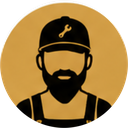
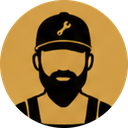
[CF-Pages-Skip] The white line was baked into the file, and the rail gets real elevation
THE WHITE LINE

It was in the PNG, not the CSS. Measured on the shipped asset: the field sits at
rgb(207,156,70) and holds until r=124, then jumps to rgb(217,162,73) at r=126
while still FULLY OPAQUE, before the alpha starts to fall at r=127. A ten-point
lighter ring, one to two pixels wide, all the way round him. On the gold tab
that is a white line around Tim.

Where it came from: the disc was cropped out of the brand-sheet screenshot at
its full radius, so the source's own antialiased edge, which blends the gold
toward the white card behind it, came along as opaque pixels. The circular mask
then made the CORNERS transparent and left that ring sitting inside it.

Rebuilt from the original screenshot rather than patched. Measuring the source
radially shows the field flat at ~146 brightness from 0.85R all the way to
0.98R and lifting only at the very edge, so the crop now takes 0.97R and the
mask lands on clean field. Three percent of the radius is imperceptible; the
ring is not. Verified after: flat 146.5 from 0.90R to 0.985R, and the only edge
left is alpha falling to zero, which composites invisibly on the same gold and
correctly on white.

--tim-gold moves to #D29E47, sampled from the rebuilt file, and the two pulse
keyframes move with it. A halo in a different gold from the coin it comes off
is the same class of bug one layer out.

ELEVATION

Not with the fill. The portrait covers 32 of the 36px, so a gradient on the tab
[…]

diff --git a/index.html b/index.html
@@ -186,7 +186,7 @@ input[type=checkbox],input[type=radio]{appearance:auto;-webkit-appearance:auto}
      and so is the field the portrait is printed on, so there is no seam where
      one ends and the other starts. A gold that is close but not equal shows up
      as a faint disc around his head at every size. */
-  --tim-gold:#D3A04B;--hat:#F2A81C;
+  --tim-gold:#D29E47;--hat:#F2A81C;
   --r-xs:4px;--r-sm:6px;--r-md:10px;--r-lg:12px;--r-xl:16px;--r-pill:999px;--r-mark:9px;
   --shadow-card:0 1px 2px rgba(27,22,18,.04),0 0 0 1px var(--line);
   --shadow-hover:0 3px 12px rgba(27,22,18,.08),0 0 0 1px var(--line);
@@ -422,8 +422,28 @@ body.td-pressing,body.td-pressing *{user-select:none!important;-webkit-user-sele
    recognisable as a man at rest, which is the whole point of having a face.
    The 6px nudge right pushes the portrait's dead centre past the screen edge
    so that what is cropped is the back of his head, not his ear. */
-#tim-dock-btn{width:36px;height:62px;border:0;border-radius:26px 0 0 26px;background:var(--tim-gold);
-  box-shadow:inset 1px 0 0 rgba(27,22,18,.16),-1px 0 0 rgba(27,22,18,.06),-4px 0 12px rgba(27,22,18,.11);
+/* ELEVATION. Owner, 2026-09-21: "how can we elevate it more".
+   Not with the fill. The portrait covers 32 of the 36px, so a gradient on the
+   tab is invisible behind him and shows as a flat disc on a graded field in the
+   2px that IS visible. What is left is the light on its edges and the shadow
+   under it, which is what elevation actually is.
+   Three things, in the order a real object makes them:
+     a warm top highlight and a cool bottom shade, 1px each, so the tab has
+       thickness instead of being a coloured rectangle;
+     a CONTACT shadow, tight and close, which is what says the tab is sitting ON
+       the page rather than printed into it;
+     an AMBIENT shadow, wide and faint, which is what says how far above.
+   One soft shadow on its own (what was here) gives the second without the
+   first, and that reads as a sticker every time.
+   68px tall, up from 62: height is the one dimension that costs the page
+   nothing, and a taller tab reads as fitted chrome rather than a nub. */
+#tim-dock-btn{width:36px;height:68px;border:0;border-radius:28px 0 0 28px;background:var(--tim-gold);
+  box-shadow:inset 0 1px 0 rgba(255,246,228,.34),
+    inset 1px 0 0 rgba(27,22,18,.20),
+    inset 0 -1px 0 rgba(27,22,18,.16),
+    -1px 0 0 rgba(27,22,18,.07),
+    -2px 1px 4px rgba(27,22,18,.14),
+    -9px 6px 22px rgba(27,22,18,.14);
   cursor:pointer;display:flex;align-items:center;justify-content:center;overflow:hidden;
   position:relative;pointer-events:auto;padding:0;
   transition:width .24s cubic-bezier(.22,1,.36,1),height .24s cubic-bezier(.22,1,.36,1),
@@ -457,7 +477,7 @@ body.td-pressing,body.td-pressing *{user-select:none!important;-webkit-user-sele
    So waking him is the pulse, the pill coming out beside him, and the count.
    Three signals and no reflow, instead of a fourth that reaches further across
    the page and looks worse for it. */
-#tim-dock-btn.alive{box-shadow:inset 1px 0 0 rgba(27,22,18,.16),-1px 0 0 rgba(27,22,18,.06),-4px 0 12px rgba(27,22,18,.11)}
+#tim-dock-btn.alive{box-shadow:inset 0 1px 0 rgba(255,246,228,.34),inset 1px 0 0 rgba(27,22,18,.20),inset 0 -1px 0 rgba(27,22,18,.16),-2px 1px 4px rgba(27,22,18,.14),-9px 6px 22px rgba(27,22,18,.14)}
 #tim-dock-btn:active{transform:scale(.96);opacity:.85}
 /* Pinned to the dock's own top right, which is the screen edge, where the tab
    corner is square and nothing curves away under it. pointer-events:none so it
@@ -478,8 +498,8 @@ body.td-pressing,body.td-pressing *{user-select:none!important;-webkit-user-sele
    say. What CHANGES is which line is showing, not what colour he is. */
 #tim-dock-btn.alive{animation:tim-breathe 2.9s ease-in-out infinite}
 @keyframes tim-breathe{
-  0%,100%{box-shadow:inset 1px 0 0 rgba(27,22,18,.16),-4px 0 12px rgba(27,22,18,.11),0 0 0 0 rgba(211,160,75,.42)}
-  50%    {box-shadow:inset 1px 0 0 rgba(27,22,18,.16),-4px 0 12px rgba(27,22,18,.11),0 0 0 9px rgba(211,160,75,0)}
+  0%,100%{box-shadow:inset 0 1px 0 rgba(255,246,228,.34),inset 1px 0 0 rgba(27,22,18,.20),inset 0 -1px 0 rgba(27,22,18,.16),-2px 1px 4px rgba(27,22,18,.14),-9px 6px 22px rgba(27,22,18,.14),0 0 0 0 rgba(210,158,71,.42)}
+  50%    {box-shadow:inset 0 1px 0 rgba(255,246,228,.34),inset 1px 0 0 rgba(27,22,18,.20),inset 0 -1px 0 rgba(27,22,18,.16),-2px 1px 4px rgba(27,22,18,.14),-9px 6px 22px rgba(27,22,18,.14),0 0 0 9px rgba(210,158,71,0)}
 }
 /* ── Tim after dark ─────────────────────────────────────────────────────────
    body.dark repoints --ink to #0A0A08 and --paper to #14110E, which are four
@@ -494,14 +514,18 @@ body.td-pressing,body.td-pressing *{user-select:none!important;-webkit-user-sele
    dark because nothing is printed next to them that has to match.
    The pulse comes down too. A gold halo at .42 is a glance on white and a
    headlight on #14110E. */
+/* Dark keeps the BEVEL and drops the ambient shadow: a soft dark shadow on a
+   #14110E page is invisible, so it is all cost and no lift. The 1px highlight
+   and the 1px bottom shade are what carry the thickness here, and they carry it
+   harder, because there is no shadow underneath doing any of the work. */
 body.dark #tim-dock-btn{filter:brightness(.92) saturate(.96);
-  box-shadow:inset 1px 0 0 rgba(27,22,18,.28)}
+  box-shadow:inset 0 1px 0 rgba(255,246,228,.22),inset 1px 0 0 rgba(0,0,0,.42),inset 0 -1px 0 rgba(0,0,0,.34)}
 body.dark #tim-dock-pill{background:var(--bg-card);
   box-shadow:0 4px 16px rgba(0,0,0,.45),0 0 0 1px var(--line-2)}
 body.dark #tim-dock-btn.alive{animation:tim-breathe-dark 2.9s ease-in-out infinite}
 @keyframes tim-breathe-dark{
-  0%,100%{box-shadow:inset 1px 0 0 rgba(27,22,18,.28),0 0 0 0 rgba(211,160,75,.26)}
-  50%    {box-shadow:inset 1px 0 0 rgba(27,22,18,.28),0 0 0 8px rgba(211,160,75,0)}
+  0%,100%{box-shadow:inset 0 1px 0 rgba(255,246,228,.22),inset 1px 0 0 rgba(0,0,0,.42),inset 0 -1px 0 rgba(0,0,0,.34),0 0 0 0 rgba(210,158,71,.26)}
+  50%    {box-shadow:inset 0 1px 0 rgba(255,246,228,.22),inset 1px 0 0 rgba(0,0,0,.42),inset 0 -1px 0 rgba(0,0,0,.34),0 0 0 8px rgba(210,158,71,0)}
 }
 /* The line crossfades in place rather than sliding: the pill is 13px type on a
    dark chip at arm's length on a job site, and text that moves while it is

diff --git a/js/cloud.js b/js/cloud.js
@@ -709,7 +709,7 @@ const _supaMode=(()=>{try{return localStorage.getItem('zp3_supa_mode');}catch(_e
 // `let` so the supaInit auto-fallback can flip it to the proxy before the client is built.
 let SUPA_URL = (_supaMode==='proxy') ? _SUPA_PROXY_URL : _SUPA_DIRECT_URL;
 const SUPA_KEY = 'sb_publishable_kaahEa5tFydocUuYi8plHg_K78HPyvJ';
-const APP_VERSION='09.20.26.18';
+const APP_VERSION='09.20.26.19';
 let _supa=null,_supaUser=null,_syncTimer=null,_syncStatus='local',_supaCloudLoaded=false,_lastLocalSaveAt=0;
 let _syncBroadcastChannel=null,_realtimeSubscribed=false,_loadInProgress=false,_activeLoadPromise=null,_broadcastReloadTimer=null,_broadcastPending=false,_reconcileTimer=null,_writeCacheTimer=null,_rtRenderTimer=null;
 // True only for the window between an in-tab sign-in landing on the dashboard

diff --git a/sw.js b/sw.js
@@ -1,4 +1,4 @@
-const CACHE = 'tradedesk-09.20.26.18';
+const CACHE = 'tradedesk-09.20.26.19';
 
 // Safari WebKit rejects any cached response with redirected:true when the SW
 // tries to serve it for a navigation. new Response() always has redirected:false.
